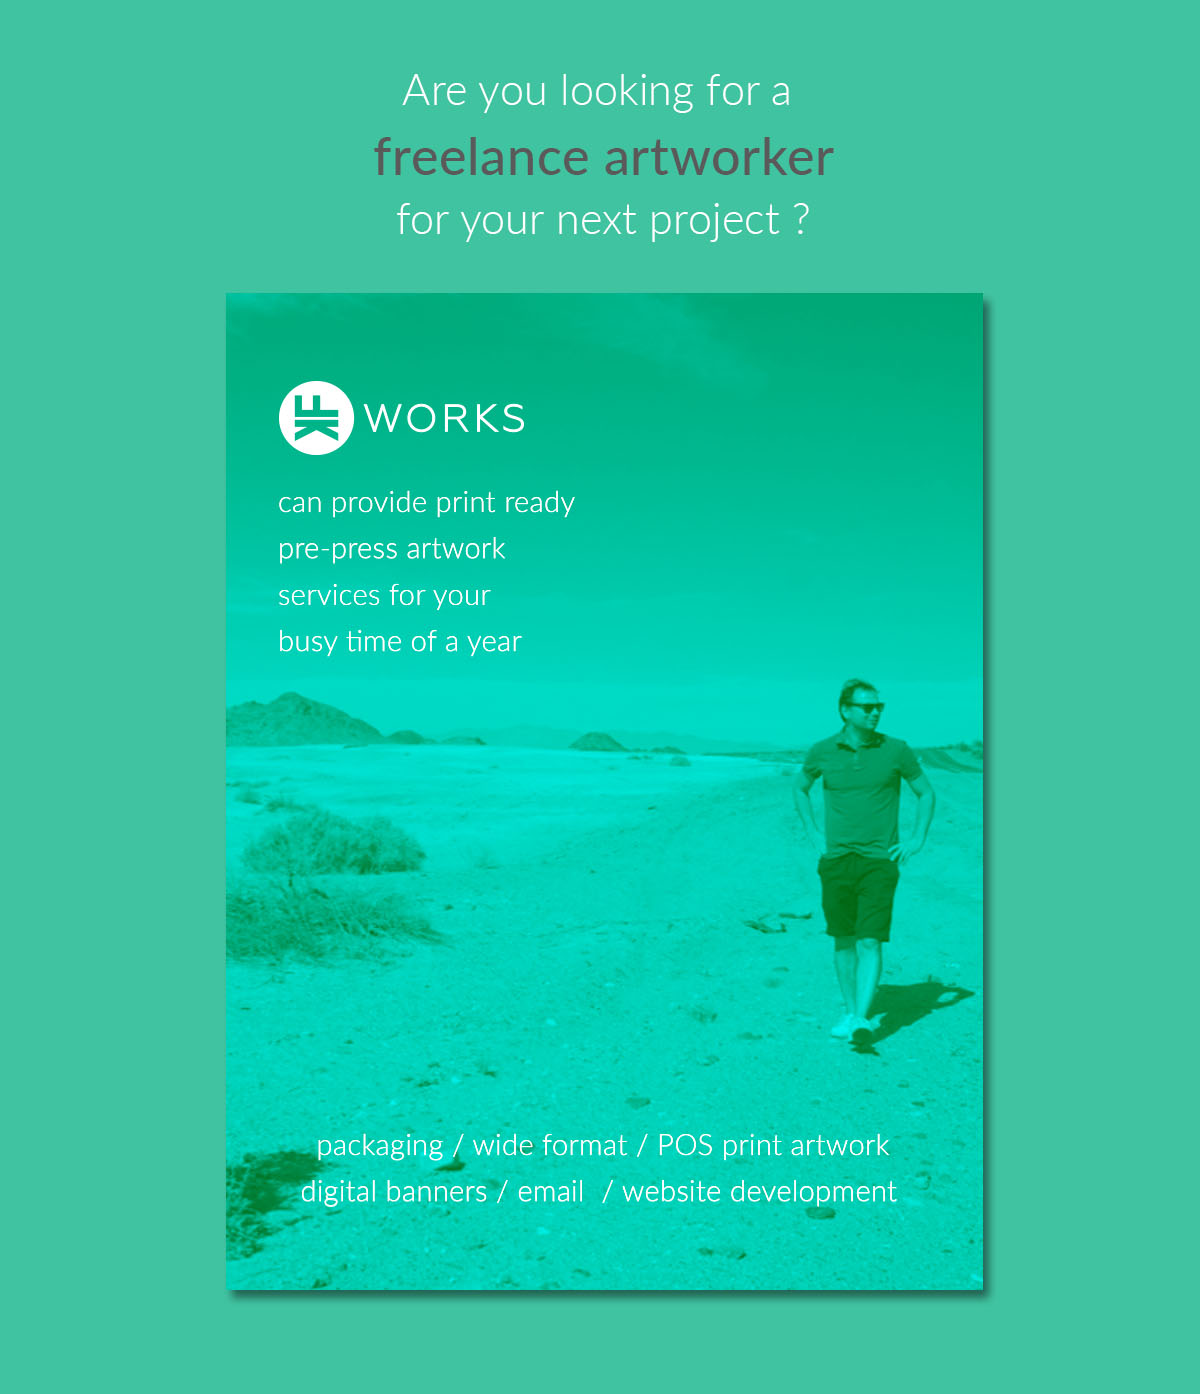
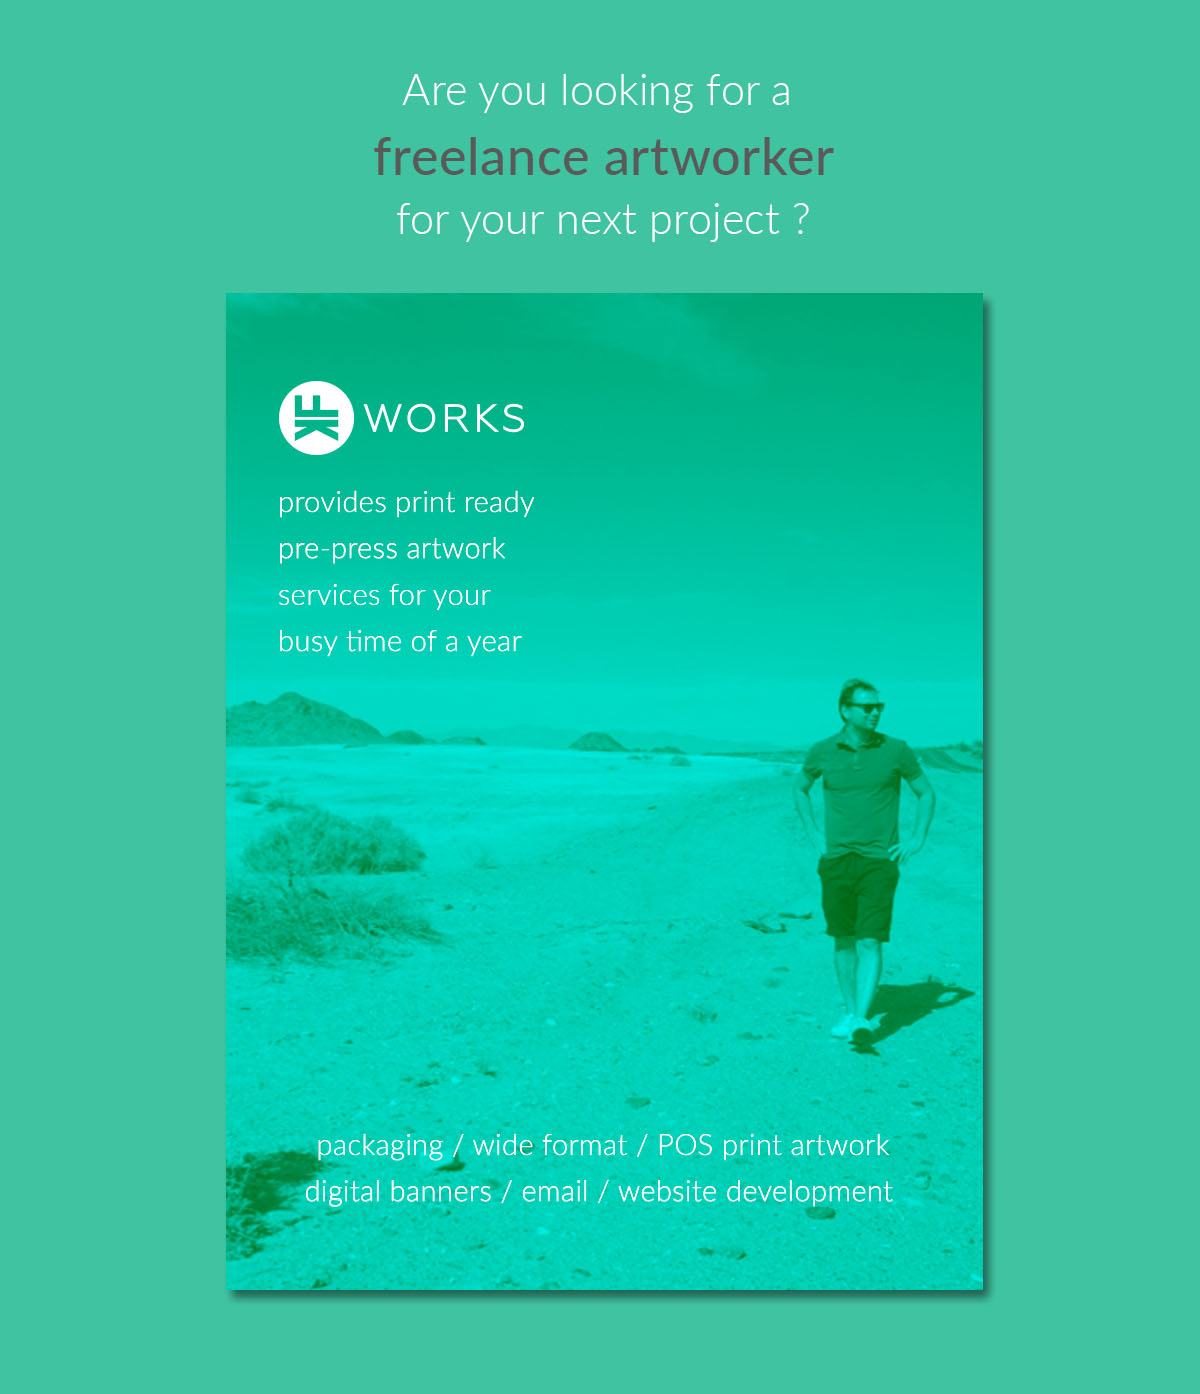
mail completion 01

Changed region(s): [[0.2467, 0.8329, 0.74, 0.8637], [0.2467, 0.3393, 0.4625, 0.3702]]

diff --git a/fk_works_email_02_artworking.html b/fk_works_email_02_artworking.html
@@ -7,9 +7,10 @@
   <meta name="viewport" content="initial-scale=1.0">
   <meta name="format-detection" content="telephone=no">
   <title>FK WORKS Pre-press Artworking</title>
+
   <style type="text/css">
-    .ReadMsgBody { width: 100%; background-color: #F0F0F0;}
-        .ExternalClass {width: 100%; background-color: #F0F0F0;}
+    .ReadMsgBody { width: 100%; background-color: #F0F0F1;}
+        .ExternalClass {width: 100%; background-color: #F0F0F1;}
         .ExternalClass, .ExternalClass p, .ExternalClass span, .ExternalClass font, .ExternalClass td, .ExternalClass div {line-height:100%;}
         body {-webkit-text-size-adjust:none; -ms-text-size-adjust:none;}
         body {margin:0; padding:0;}
@@ -35,6 +36,9 @@
             	height: auto;
             }
          }
+
+        @import url('https://fonts.googleapis.com/css?family=Lato:100,300');/*Calling our web font*/
+
   </style>
   <meta name="robots" content="noindex,nofollow"></meta>
   <meta property="og:title" content="Guess what&#8217;s finally here?"></meta>
@@ -51,29 +55,27 @@
         <table border="0" width="600" cellpadding="0" cellspacing="0" class="container" bgcolor="#ffffff" style="border-spacing:0;">
 
           <tr>
-            <td bgcolor="#F0F0F0" style="background-color:#F0F0F0;font-size:14px;line-height:20px;font-family:Helvetica, sans-serif;color:#333;border-collapse:collapse;">
-              <a href="http://www.fk-works.com/"><img src="images/main_green_img.jpg" alt="FK WORKS" class="issue" width="100%" style="display:block;"></a>
+            <td bgcolor="#F0F0F0" style="background-color:#F0F0F0;font-size:14px;line-height:20px;font-family:'Lato', sans-serif;color:#333;border-collapse:collapse;">
+              <a href="http://www.fk-works.com/" target="_blank"><img src="images/main_green_img.jpg" alt="FK WORKS" class="issue" width="100%" style="display:block;"></a>
             </td>
           </tr>
 
           <tr>
-            <td class="container-padding" bgcolor="#FFFFFF" style="background-color:#FFFFFF;padding-left:50px;padding-right:50px;padding-top:0px;padding-bottom:50px;font-size:14px;line-height:20px;font-family:Helvetica, sans-serif;color:#2a2a2a;border-collapse:collapse;">
+            <td class="container-padding" bgcolor="#FFFFFF" style="background-color:#FFFFFF;padding-left:50px;padding-right:50px;padding-top:0px;padding-bottom:50px;font-size:14px;line-height:20px;font-family:'Lato', sans-serif;color:#2a2a2a;border-collapse:collapse;">
 
               <br>
               <br>
 
               <center>
 
-                <a href="http://brizkdesign.createsend1.com/t/r-l-fdrdye-l-y/"><img src="http://i4.createsend1.com/ei/r/80/557/82D/205623/spreads.gif" alt="Sample spreads (about 1MB)" class="spreads" width="100%" style="display:block;padding-top:10px;"></a>
+                <a href="http://www.fk-works.com/#tf-works" target="_blank"><img src="http://i.giphy.com/l3q2LItd8IG6qWG7m.gif" alt="Sample spreads (about 1MB)" class="spreads" width="100%" style="display:block;"></a>
 
                 <br>
 
-                <div style="font-weight:bold;font-size:16px;line-height:24px;color:#2a2a2a;">
+                <div style="font-size:16px;line-height:24px;color:#2a2a2a;">
 
-                  Hey friends! As I&rsquo;ve said in my previous email, issue No12 has been a <a href="http://brizkdesign.createsend1.com/t/r-l-fdrdye-l-j/" style="color:#000000;text-decoration:underline;">challenging</a> one to put together. That&rsquo;s
-                  why I&rsquo;m all the more happy to finally be able to set it free! It&rsquo;s another issue full to the brim with strong interviews, thoughtful stories, and smart opinion pieces. I&rsquo;ve thrown in some goats for good measure too.
-                  Oh, and there is an exciting new insert to look forward to, of course. (<a href="http://brizkdesign.createsend1.com/t/r-l-fdrdye-l-t/" style="color:#000000;text-decoration:underline;">Want a spoiler?</a>) I really hope you enjoy it!
-                  – Kai
+                  Hello dear Ms/Mr ! My name is Fero Krivda and if you would need any help with print artwork creation from packaging / large format / brochures / POS to any other type of work as digital banners / email templates (as this one or better) / responsive websites
+                  please contact me at (<a href="mailto:hello@fk-works.com" style="color:#000000;text-decoration:underline;">hello@fk-works.com</a>) or call 079555681146. I hope you get back to me or I apologise for disturbing you! Have a good day!
 
 
                 </div>
@@ -81,14 +83,12 @@
                 <br>
                 <br>
 
-                <a href="http://brizkdesign.createsend1.com/t/r-l-fdrdye-l-i/" style="background-color:#64bfa1;background-image:none;background-repeat:repeat;background-position:top left;background-attachment:scroll;font-size:16px;padding-top:10px;padding-bottom:10px;padding-right:35px;padding-left:35px;color:#ffffff;border-radius:3px;text-decoration:none;white-space:nowrap;display:inline-block;margin-bottom:20px;margin-top:0px;"><strong>View Details</strong></a>
+                <a href="http://www.fk-works.com/#tf-works" target="_blank" style="background-color:#64bfa1;background-image:none;background-repeat:repeat;background-position:top left;background-attachment:scroll;font-size:16px;padding-top:10px;padding-bottom:10px;padding-right:35px;padding-left:35px;color:#ffffff;border-radius:70px;text-decoration:none;white-space:nowrap;display:inline-block;margin-bottom:20px;margin-top:0px;"><strong>View Portfolio</strong></a>
 
-                <a href="http://brizkdesign.createsend1.com/t/r-l-fdrdye-l-d/" style="background-color:#64bfa1;background-image:none;background-repeat:repeat;background-position:top left;background-attachment:scroll;font-size:16px;padding-top:10px;padding-bottom:10px;padding-right:35px;padding-left:35px;color:#ffffff;border-radius:3px;text-decoration:none;white-space:nowrap;display:inline-block;margin-bottom:20px;margin-top:0px;"><strong>Buy / Subscribe</strong></a>
+                <a href="http://www.fk-works.com/#tf-contact" target="_blank" style="background-color:#64bfa1;background-image:none;background-repeat:repeat;background-position:top left;background-attachment:scroll;font-size:16px;padding-top:10px;padding-bottom:10px;padding-right:35px;padding-left:35px;color:#ffffff;border-radius:70px;text-decoration:none;white-space:nowrap;display:inline-block;margin-bottom:20px;margin-top:0px;"><strong>Contact</strong></a>
 
                 <br>
-                <br> Available for sale online now or at our <a href="http://brizkdesign.createsend1.com/t/r-l-fdrdye-l-u/" style="color:#000000;text-decoration:underline;">stockists</a> within 1-3 weeks starting with shops in Europe. Any questions? Just
-                reply to this email.
-
+                <br> Available for short or long term contracts around London <br />(I <a href="https://scontent.cdninstagram.com/t51.2885-15/s320x320/e35/c94.0.452.452/16124140_207495359718481_1897493285534957568_n.jpg?ig_cache_key=MTQzNjM2MDk1Njg5NTk5NzAwNg%3D%3D.2.c" target="_blank" style="color:#000000;text-decoration:underline;">cycle</a> so not dependant on a traffic situation)
 
               </center>
 
@@ -102,13 +102,12 @@
 
         <table border="0" width="600" cellpadding="0" cellspacing="0" class="container" bgcolor="#ffffff" style="border-spacing:0;">
           <tr>
-            <td class="container-padding footerlinks" bgcolor="#FFFFFF" style="background-color:#FFFFFF;padding-left:30px;padding-right:30px;padding-top:10px;padding-bottom:10px;font-size:12px;line-height:20px;font-family:Helvetica, sans-serif;color:#a2a2a2;text-align:center;border-top-width:1px;border-top-style:solid;border-top-color:#F0F0F0;border-collapse:collapse;">
+            <td class="container-padding footerlinks" bgcolor="#FFFFFF" style="background-color:#FFFFFF;padding-left:30px;padding-right:30px;padding-top:10px;padding-bottom:10px;font-size:12px;line-height:20px;font-family:'Lato', sans-serif;color:#a2a2a2;text-align:center;border-top-width:1px;border-top-style:solid;border-top-color:#F0F0F0;border-collapse:collapse;">
               <center>
                 <a href="#" style="color:#a2a2a2;text-decoration:underline;">Unsubscribe</a> —
-                <a href="http://brizkdesign.createsend1.com/t/r-fb-fdrdye-l-b/" likeurl="http://www.facebook.com/offscreenmag" rel="cs_facebox" style="color:#a2a2a2;text-decoration:underline;">Like</a> —
-                <a href="#" style="color:#a2a2a2;text-decoration:underline;">Tweet</a> —
-                <a href="#" style="color:#a2a2a2;text-decoration:underline;">Forward</a> —
-                <a href="#" style="color:#a2a2a2;text-decoration:underline;">View online</a>
+                <a href="https://www.facebook.com/fkworks/" likeurl="https://www.facebook.com/fkworks/" target="_blank" rel="cs_facebox" style="color:#a2a2a2;text-decoration:underline;">Facebook</a> —
+                <a href="https://twitter.com/FeroKrivda" target="_blank" style="color:#a2a2a2;text-decoration:underline;">Twitter</a> —
+                <a href="https://uk.linkedin.com/in/frantisekkrivda" target="_blank" style="color:#a2a2a2;text-decoration:underline;">LinkedIn</a>
               </center>
             </td>
           </tr>
@@ -120,7 +119,7 @@
             <td class="container-padding" style="padding-left:30px;padding-right:30px;font-size:12px;line-height:20px;font-family:Helvetica, sans-serif;color:#aaaaaa;text-align:center;border-collapse:collapse;">
               <center>
                 <br>
-                <strong>Offscreen is a publication by brizk design.</strong><br> 404/20 Breese St, Brunswick VIC 3056, Australia
+                  &copy; 2017 FK WORKS, 30 Montrell Rd, London, SW2 4QB, UK
                 <br>
                 <br>
               </center>
